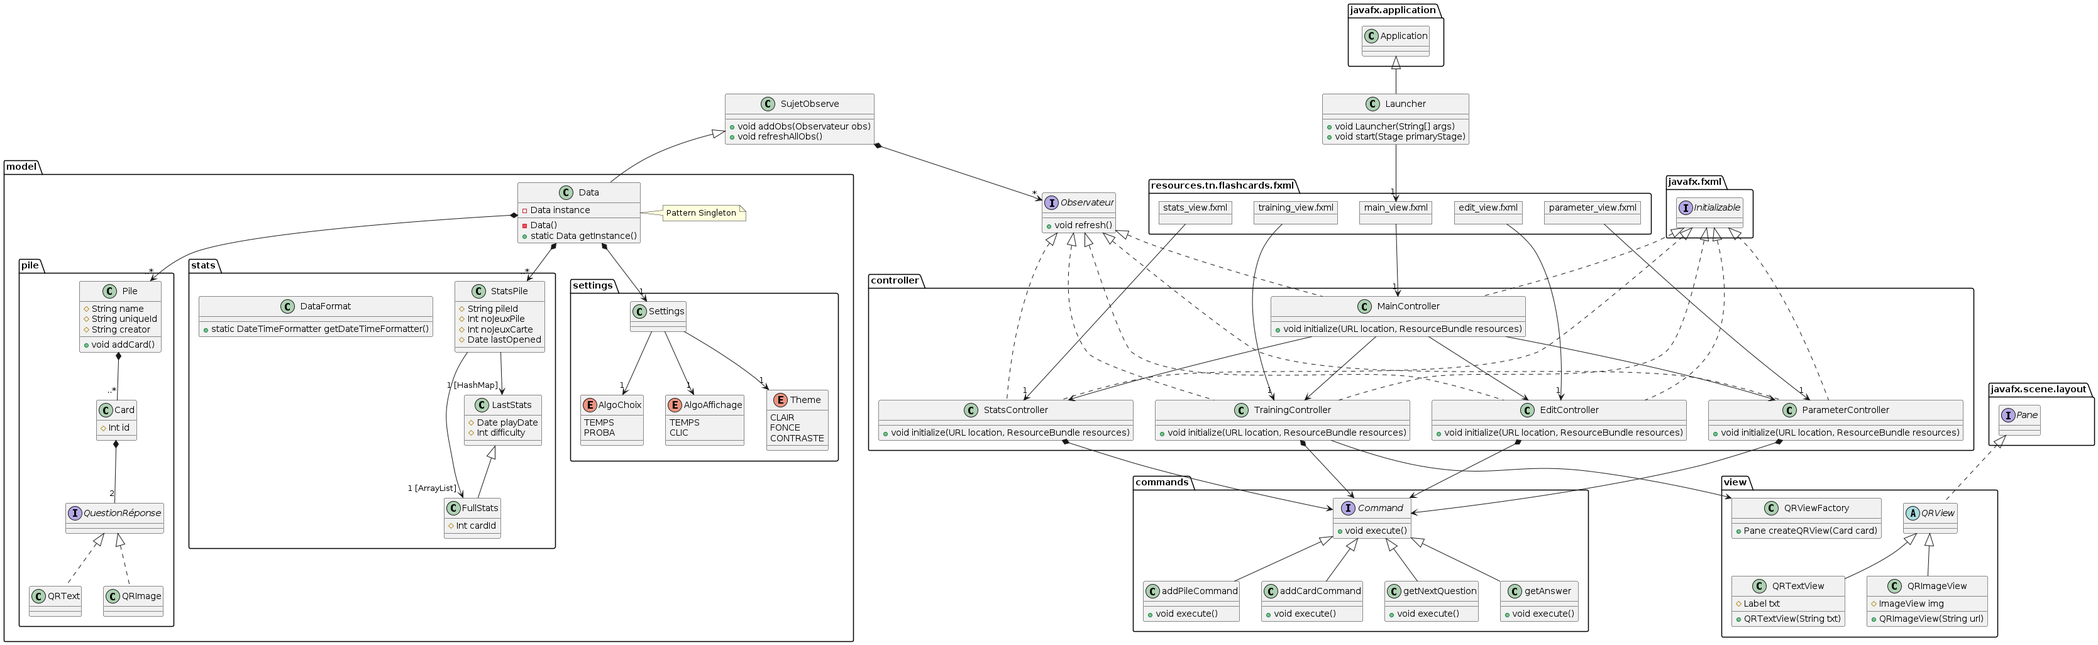
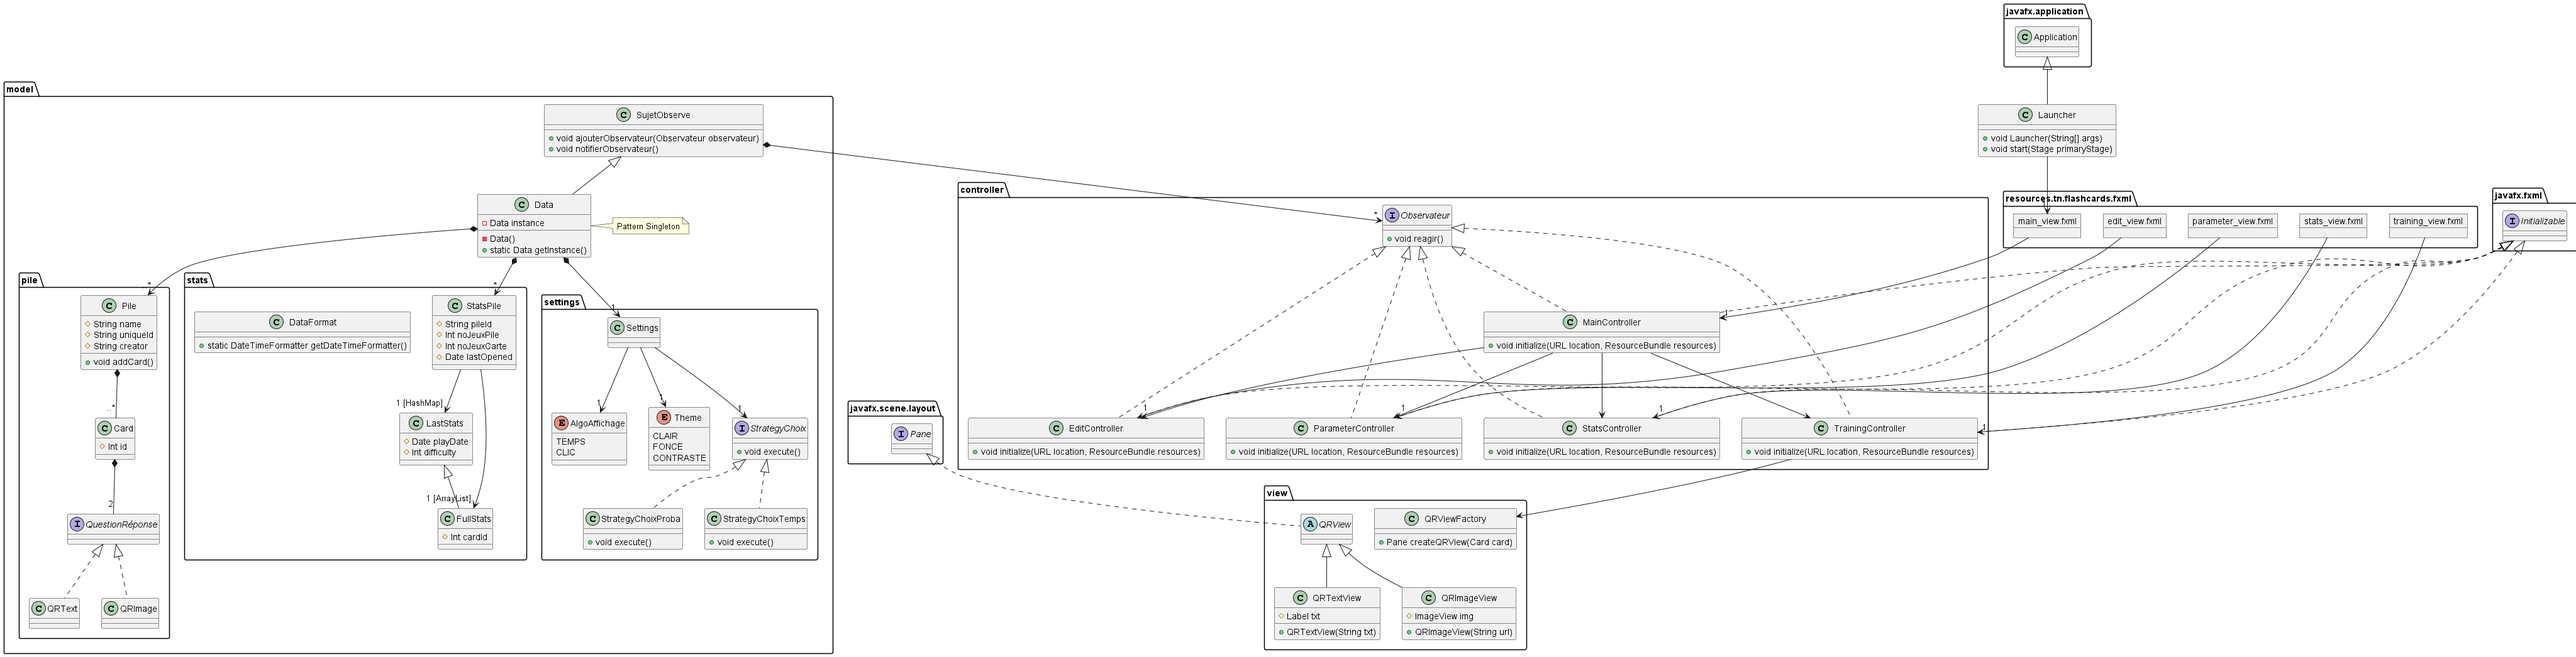
[EDIT] mettre methodes de DataExpert dans Data

diff --git a/flashcards/src/main/java/tn/flashcards/model/Data.java b/flashcards/src/main/java/tn/flashcards/model/Data.java
@@ -3,7 +3,10 @@ package tn.flashcards.model;
 import java.util.ArrayList;
 import java.util.HashMap;
 
+import tn.flashcards.model.pile.Card;
 import tn.flashcards.model.pile.Pile;
+import tn.flashcards.model.pile.QRType;
+import tn.flashcards.model.pile.QuestionReponse;
 import tn.flashcards.model.stats.StatsPile;
 
 public class Data extends SujetObserve {
@@ -30,8 +33,8 @@ public class Data extends SujetObserve {
         return this.piles;
     }
 
-    //Recuperer unr pile specifique
-    public Pile getAPile(String id) {
+    //Recuperer une pile specifique
+    private Pile getAPile(String id) {
         for (Pile p:this.piles) {
             if (p.getUniqueId().equals(id)) {
                 return p ;
@@ -42,8 +45,27 @@ public class Data extends SujetObserve {
     }
 
     // Ajouter une pile
-    public void addPile(Pile p) {
+    private void addPile(Pile p) {
         this.piles.add(p) ;
         this.statsPile.put(p.getUniqueId(), new StatsPile(p.getUniqueId())) ;
+    }
+
+    /*
+    METHODES COMPLEXES
+     */
+
+    public void createPile(String name, String creator) {
+        Pile p = new Pile() ;
+        p.setName(name);
+        p.setCreator(creator);
+        this.addPile(p) ;
+        this.notifierObservateur() ;
+    }
+
+    public void createCard(String pileId, QRType qType, String question, QRType rType, String reponse) {
+        Card c = this.getAPile(pileId).createCard() ;
+        c.setQuestion(new QuestionReponse(qType, question));
+        c.setReponse(new QuestionReponse(rType, reponse));
+        this.notifierObservateur();
     }
 }

diff --git a/flashcards/src/main/java/tn/flashcards/model/settings/StrategyChoixTemps.java b/flashcards/src/main/java/tn/flashcards/model/settings/StrategyChoixTemps.java
@@ -3,6 +3,6 @@ package tn.flashcards.model.settings;
 public class StrategyChoixTemps implements StrategyChoix {
     @Override
     public void execute() {
-        
+
     }
 }
